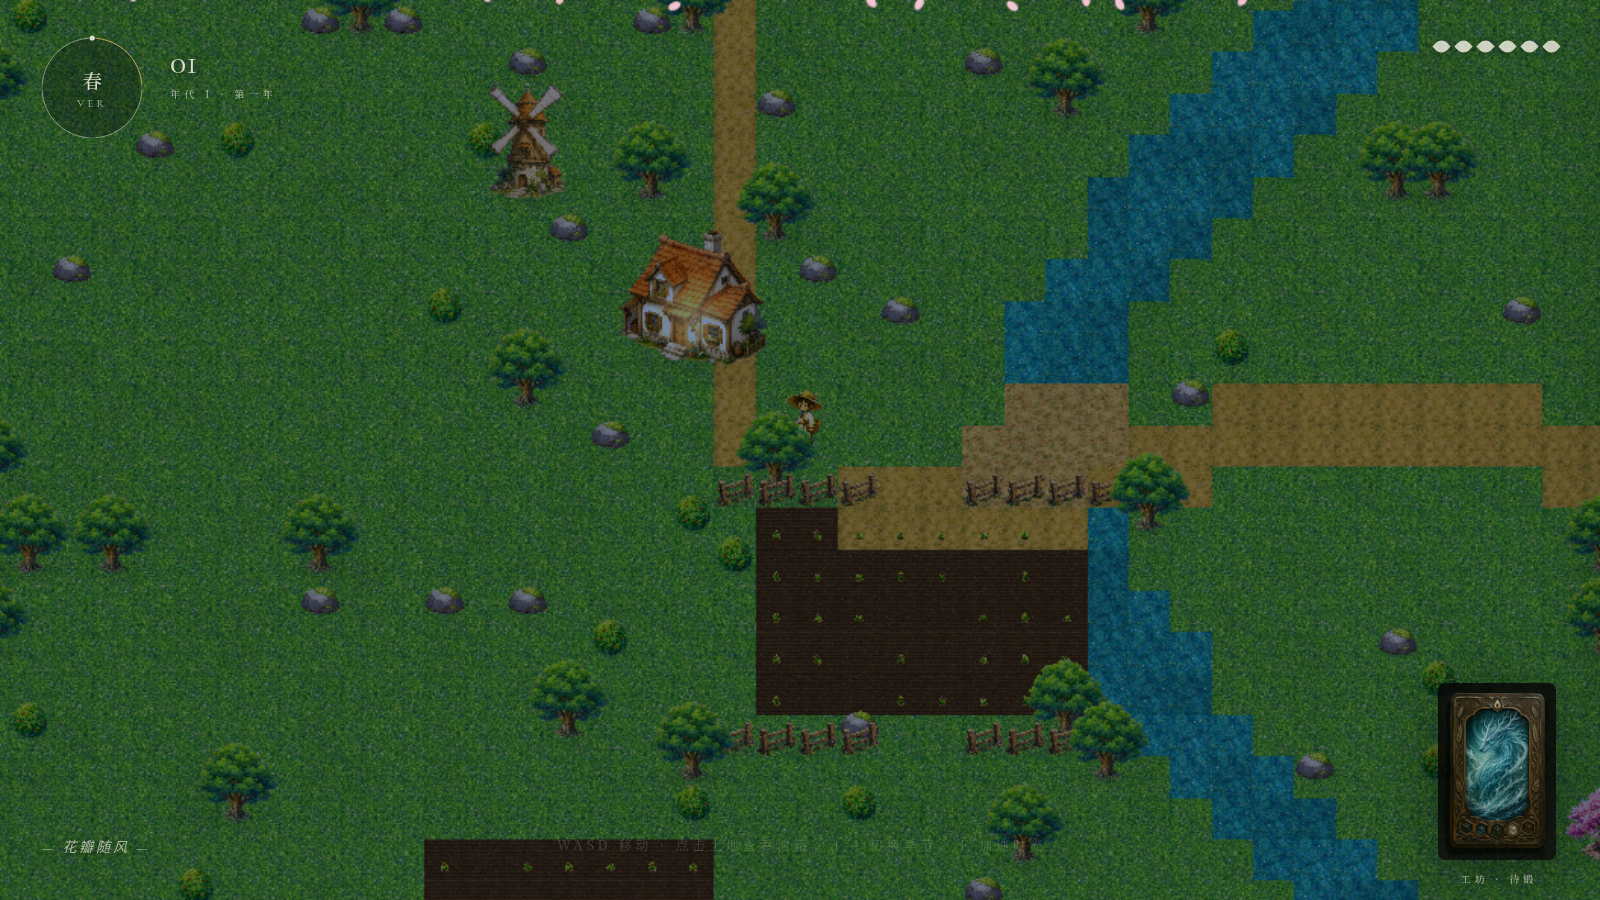
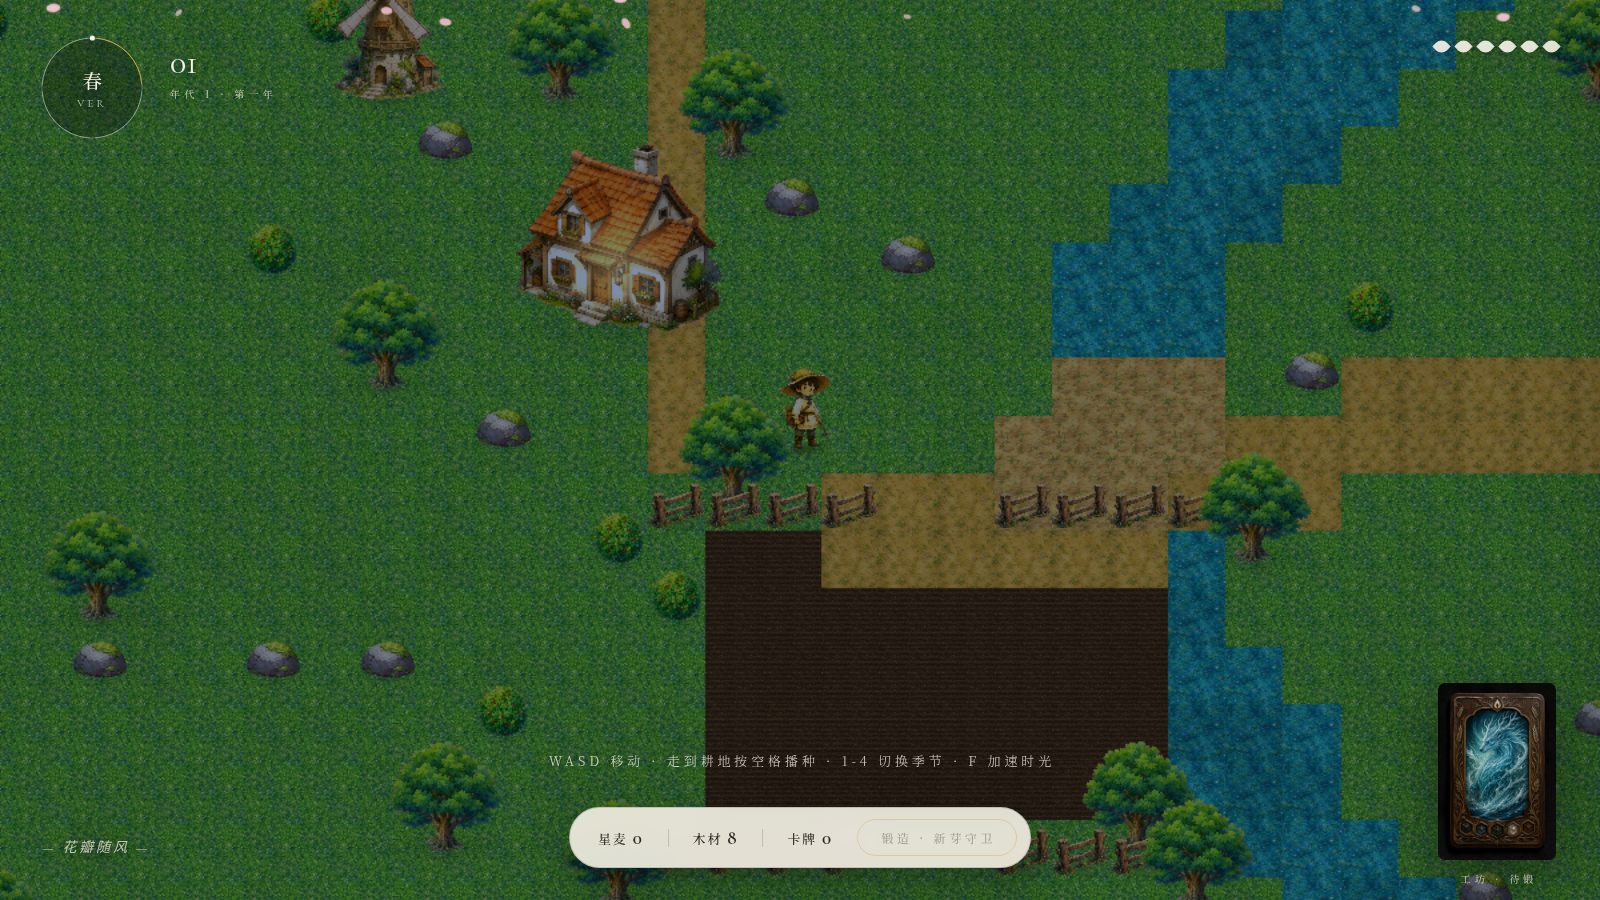
v4: cache-busting (?v= + nginx no-cache for html/js), time-based particle emitter w/ viewport-scaled speeds & season fade-out, full interact feedback, tree chopping for wood, 2x sharpened title KV

diff --git a/src/main.js b/src/main.js
@@ -10,6 +10,10 @@
    ========================================================= */
 'use strict';
 
+/* 资产版本号: 内容更新时 +1,绕过浏览器/CDN 旧缓存 */
+const ASSET_V='?v=3';
+const loadTex=src=>PIXI.Assets.load(src+ASSET_V);
+
 /* ================= 1. 资产清单(换图接口) ================= */
 const ASSETS = {
   //  src: 贴图路径(null=占位符)  winterSrc: 冬季覆雪变体  faceDir: 原画朝向(-1=朝左)
@@ -171,7 +175,7 @@ for(let y=0;y<MAP;y++)for(let x=0;x<MAP;x++){
   const t=ASSETS.tiles[{g:'grass',G:'grass',s:'soil',w:'water',b:'sand',p:'plot'}[k]];
   const sp=new PIXI.Sprite(PIXI.Texture.WHITE);
   sp.width=TS+1; sp.height=TS+1; sp.position.set(x*TS,y*TS);
-  if(t.src) PIXI.Assets.load(t.src).then(tex=>{sp.texture=tex;sp.width=TS+1;sp.height=TS+1;});
+  if(t.src) loadTex(t.src).then(tex=>{sp.texture=tex;sp.width=TS+1;sp.height=TS+1;});
   const r=hash(x*13+7,y*11+3);
   sp._k=k; sp._j=0.965+r*0.07;                 // 每块明度抖动(轻,避免棋盘感)
   sp._ph=r*6.28;                               // 水面相位
@@ -197,7 +201,7 @@ function cullWorld(){
       tileSprites[i].visible=v; const sn=snowAt[i]; if(sn)sn.visible=v;
     }}
   for(const o of OBJECTS){const n=o.node;
-    n.visible = n.x>wx0-220&&n.x<wx1+220&&n.y>wy0-300&&n.y<wy1+140;}
+    n.visible = !o.felled && n.x>wx0-220&&n.x<wx1+220&&n.y>wy0-300&&n.y<wy1+140;}
   for(const c of crops) c.visible = c.x>wx0-60&&c.x<wx1+60&&c.y>wy0-70&&c.y<wy1+70;
 }
 
@@ -210,11 +214,11 @@ function makeNode(kind){
   sh.width=a.w*1.15; sh.height=a.w*.42; sh.y=-2; node.addChild(sh); node._shadow=sh;
   if(a.src){
     const sp=new PIXI.Sprite(); sp.anchor.set(.5, a.anchorY??1);
-    PIXI.Assets.load(a.src).then(tex=>{sp.texture=tex; sp.width=a.w; sp.height=a.h;});
+    loadTex(a.src).then(tex=>{sp.texture=tex; sp.width=a.w; sp.height=a.h;});
     node.addChild(sp); node._body=sp; node._graded=true;
     if(a.winterSrc){                              // 冬季覆雪变体(crossfade)
       const wsp=new PIXI.Sprite(); wsp.anchor.set(.5, a.anchorY??1); wsp.alpha=0;
-      PIXI.Assets.load(a.winterSrc).then(tex=>{wsp.texture=tex; wsp.width=a.w; wsp.height=a.h;});
+      loadTex(a.winterSrc).then(tex=>{wsp.texture=tex; wsp.width=a.w; wsp.height=a.h;});
       node.addChild(wsp); node._winter=wsp;
     }
     if(kind==='house'){
@@ -296,7 +300,7 @@ function makePlayer(){
   const rig=new PIXI.Container(); node.addChild(rig); node._rig=rig;
   if(a.src){
     const sp=new PIXI.Sprite(); sp.anchor.set(.5,1);
-    PIXI.Assets.load(a.src).then(tex=>{sp.texture=tex;sp.width=a.w;sp.height=a.h;});
+    loadTex(a.src).then(tex=>{sp.texture=tex;sp.width=a.w;sp.height=a.h;});
     rig.addChild(sp);
   } else {
     // 纸片人占位:亚麻袍 + 草帽,饥荒式比例
@@ -402,44 +406,58 @@ const TEX_PETAL=shapeTex(g=>{g.fillStyle='#f4c4d2';g.beginPath();g.ellipse(8,8,6
 const TEX_LEAF =shapeTex(g=>{g.fillStyle='#c47834';g.beginPath();g.ellipse(8,8,7,4.2,0,0,7);g.fill();});
 const TEX_SNOW =shapeTex(g=>{g.fillStyle='#f8fafc';g.beginPath();g.arc(8,8,4.4,0,7);g.fill();});
 const parts=[];
+let emitAcc=0, wind=0;
 function spawnParticles(st,dt,night){
   const s=((Math.floor(st)%4)+4)%4;
-  const vw=app.screen.width;
-  const budget=s===1?(night?1:0):s===3?2:1;
-  for(let i=0;i<budget;i++){
+  const vw=app.screen.width, vh=app.screen.height;
+  wind=Math.sin(elapsed*.13)*.6+Math.sin(elapsed*.047)*.4;        // 缓慢阵风
+  /* 按"每秒个数"发射(与帧率解耦,杜绝低帧率下整行同时落下) */
+  const rate = s===1?(night?3:0) : s===3?9 : 6;
+  emitAcc+=dt*rate;
+  while(emitAcc>=1){
+    emitAcc-=1;
     if(parts.length>(quality===2?140:60)) break;
     let p;
-    const sc=.45+Math.random()*.65;            // 大小≈景深:近大快,远小慢
+    const sc=.45+Math.random()*.65;                               // 大小≈景深
     if(s===1&&night){
       p=new PIXI.Sprite(TEX_GLOW); p.width=p.height=8+sc*6; p.blendMode='add'; p.tint=0xffe896;
       p._fire=true; p._vx=0; p._vy=0;
-      p.x=Math.random()*vw; p.y=app.screen.height*(.3+Math.random()*.5);
+      p.x=Math.random()*vw; p.y=vh*(.3+Math.random()*.5);
     } else {
       p=new PIXI.Sprite(s===0?TEX_PETAL:s===2?TEX_LEAF:TEX_SNOW);
       p.scale.set(sc);
-      const depth=.45+sc*.85;
-      p._vx=(s===2?-26:s===0?7:-6)*depth;
-      p._vy=(s===2?42:s===0?36:26)*depth;
+      const depth=.5+sc*.8;
+      /* 速度按屏幕高度缩放:整屏下落 9~16 秒,大屏小屏氛围一致 */
+      p._vy=vh*(s===3? .055+sc*.05 : .07+sc*.06)*depth;
+      p._vx=vh*(s===2?-.030:s===0?.012:-.008)*depth;
       p._spin=s===3?(Math.random()-.5)*.7:(Math.random()-.5)*3.2;
-      p._swayA=s===3?6+Math.random()*8:10+Math.random()*18;
+      p._swayA=(s===3?.006+Math.random()*.008:.010+Math.random()*.016)*vh;
+      p._swayF=.7+Math.random()*.9;                               // 各自摆动频率,不同步
       p.alpha=.42+sc*.5;
-      p.x=Math.random()*vw*1.2-vw*.1; p.y=-14;
+      p.x=Math.random()*(vw+vh*.3)-vh*.15; p.y=-14-Math.random()*vh*.06;
     }
     p.anchor.set(.5); p._s=s; p._ph=Math.random()*6.28; p._life=0;
     partC.addChild(p); parts.push(p);
   }
 }
-function updateParticles(dt){
+function updateParticles(dt,curSeason){
+  const vh=app.screen.height;
   for(let i=parts.length-1;i>=0;i--){const p=parts[i];
-    p._ph+=dt*(p._fire?2:1.1); p._life+=dt;
+    p._ph+=dt*(p._fire?2:p._swayF||1); p._life+=dt;
+    /* 换季: 旧季粒子快速淡出(樱花不会飘进冬天) */
+    if(!p._fire && p._s!==curSeason){
+      p.alpha-=dt*1.4;
+      if(p.alpha<=0){partC.removeChild(p);parts.splice(i,1);continue;}
+    }
     if(p._fire){
       p.x+=Math.sin(p._ph*.9)*20*dt; p.y+=Math.cos(p._ph*.7)*13*dt;
       p.alpha=Math.max(0,Math.sin(p._ph))*.9;
       if(p._life>7){partC.removeChild(p);parts.splice(i,1);} continue;
     }
-    p.x+=(p._vx+Math.sin(p._ph)*p._swayA)*dt; p.y+=p._vy*dt;
+    p.x+=(p._vx + wind*vh*.045*(p._s===3?1:.6) + Math.sin(p._ph)*p._swayA)*dt;
+    p.y+=p._vy*dt;
     p.rotation+=p._spin*dt;
-    if(p.y>app.screen.height+16){partC.removeChild(p);parts.splice(i,1);}
+    if(p.y>vh+16){partC.removeChild(p);parts.splice(i,1);}
   }
 }
 
@@ -528,6 +546,11 @@ app.ticker.add(tk=>{
       n._body.rotation=Math.sin(elapsed*1.1+n.x*.01)*.008;
       if(n._winter) n._winter.rotation=n._body.rotation;
     }
+    if(o._shake>0){                                // 伐木受击晃动
+      o._shake-=dt*2.4;
+      n.scale.set(1+Math.sin(o._shake*26)*.05*Math.max(0,o._shake));
+      if(o._shake<=0) n.scale.set(1);
+    }
   }
   /* 玩家与镜头 */
   if(entered){ movePlayer(dt); }
@@ -545,7 +568,7 @@ app.ticker.add(tk=>{
   golden.tint=0xe89646; golden.alpha=dusk*.34;
   vignette.width=vw; vignette.height=vh;
   for(const c of cloudShadows){ c.x+=c._v*dt; if(c.x>MAP*TS+600)c.x=-600; }
-  spawnParticles(st,dt,night>.62); updateParticles(dt);
+  spawnParticles(st,dt,night>.62); updateParticles(dt,((Math.floor(st)%4)+4)%4);
 
   updateHUD(st,Math.floor(elapsed/DAY_SECONDS));
   springTick(dt);
@@ -576,7 +599,13 @@ function updateHUD(st,day){
     $('weatherTag').textContent='— '+WEATHER[si][(Math.random()*3)|0]+' —';}
   if(day!==lastDay){lastDay=day;$('dayNum').textContent=String(day%28+1).padStart(2,'0');
     if(day%3===0)$('weatherTag').textContent='— '+WEATHER[si][(Math.random()*3)|0]+' —';
-    staminaUsed=0; syncLeaves();}                                      // 新一天体力恢复
+    staminaUsed=0; syncLeaves();                                       // 新一天体力恢复
+    for(let i=fellQueue.length-1;i>=0;i--){                            // 伐倒的树次日重生
+      const f=fellQueue[i];
+      if(day>=f.day){ f.o.felled=false; f.o.hp=2;
+        if(f.o._col) colliders.push(f.o._col);
+        fellQueue.splice(i,1); }
+    }}
 }
 
 /* 地块面板(弹簧物理) */
@@ -633,38 +662,72 @@ function toastHint(t){ const w=$('whisper'); w.textContent=t; w.style.opacity=1;
 
 const playerTileKey=()=>Math.floor(player.x/TS)+','+Math.floor((player.y-4)/TS);
 
+/* 伐木 */
+const fellQueue=[];
+function nearestChoppable(){
+  let best=null,bd=1e9;
+  for(const o of OBJECTS){
+    if((o.kind!=='tree'&&o.kind!=='cherry')||o.felled) continue;
+    const dx=o.node.x-player.x, dy=o.node.y-player.y, d=dx*dx+dy*dy;
+    if(d<bd){bd=d;best=o;}
+  }
+  return bd<95*95? best:null;
+}
+function chop(o){
+  o.hp=(o.hp??2)-1; o._shake=1;
+  if(o.hp>0){ toastHint('咔 —— 再砍一下'); return; }
+  if(staminaUsed>=6){ toastHint('体力耗尽 · 待明日恢复'); o.hp=1; return; }
+  staminaUsed++; syncLeaves();
+  farm.inventory.materials.wood=(farm.inventory.materials.wood||0)+2;
+  Terra.save(); updateDock(); toastHint('伐木 · 木材 +2');
+  o.felled=true; o.node.visible=false;
+  const ci=colliders.findIndex(c=>c.x===o.node.x&&c.y===o.node.y);
+  if(ci>=0) o._col=colliders.splice(ci,1)[0];
+  fellQueue.push({o, day:Math.floor(elapsed/DAY_SECONDS)+1});
+}
+
 function interact(){
   const key=playerTileKey();
-  if(!tileMeta[key]) return;
-  const pc=planted[key];
-  if(!pc){                                      // 播种
-    if(staminaUsed>=6){ toastHint('体力耗尽 · 待明日恢复'); return; }
-    staminaUsed++; syncLeaves();
-    const c=makeNode('crop');
-    const [tx,ty]=key.split(',').map(Number);
-    c.x=tx*TS+TS/2; c.y=ty*TS+TS/2+16; c._shadow.visible=false; c.scale.set(.32);
-    overlayL.addChild(c); crops.push(c);
-    planted[key]={node:c, at:elapsed, mature:false};
-  } else if(pc.mature){                         // 收获:质量继承产地肥力
-    const meta=tileMeta[key];
-    (farm.inventory.crops.starwheat ??= []).push({
-      quality:+(meta.fert/100).toFixed(2), originFertility:meta.fert });
-    Terra.save(); updateDock();
-    toastHint(`收获 星麦 · 产地肥力 ${meta.fert}`);
-    overlayL.removeChild(pc.node);
-    const ci=crops.indexOf(pc.node); if(ci>=0)crops.splice(ci,1);
-    delete planted[key];
+  if(tileMeta[key]){
+    const pc=planted[key];
+    if(!pc){                                      // 播种
+      if(staminaUsed>=6){ toastHint('体力耗尽 · 待明日恢复'); return; }
+      staminaUsed++; syncLeaves();
+      const c=makeNode('crop');
+      const [tx,ty]=key.split(',').map(Number);
+      c.x=tx*TS+TS/2; c.y=ty*TS+TS/2+16; c._shadow.visible=false; c.scale.set(.32);
+      overlayL.addChild(c); crops.push(c);
+      planted[key]={node:c, at:elapsed, mature:false};
+      toastHint('播种 星麦 · 静待生长');
+    } else if(pc.mature){                         // 收获:质量继承产地肥力
+      const meta=tileMeta[key];
+      (farm.inventory.crops.starwheat ??= []).push({
+        quality:+(meta.fert/100).toFixed(2), originFertility:meta.fert });
+      Terra.save(); updateDock();
+      toastHint(`收获 星麦 · 产地肥力 ${meta.fert}`);
+      overlayL.removeChild(pc.node);
+      const ci=crops.indexOf(pc.node); if(ci>=0)crops.splice(ci,1);
+      delete planted[key];
+    } else toastHint('成长中 · 再等等');
+    return;
   }
+  const t=nearestChoppable();
+  if(t){ chop(t); return; }
+  toastHint('站上耕地可播种 · 靠近树木可伐木');
 }
 
 function updateHint(){
   const el=$('hintAction'), txt=$('hintTxt');
   if(!entered){ el.style.opacity=0; return; }
   const key=playerTileKey();
-  if(!tileMeta[key]){ el.style.opacity=0; return; }
-  const pc=planted[key];
-  txt.textContent = !pc? '播种 · 体力×1' : pc.mature? '收获星麦' : '成长中 …';
-  el.style.opacity = (!pc||pc.mature)? 1 : .55;
+  if(tileMeta[key]){
+    const pc=planted[key];
+    txt.textContent = !pc? '播种 · 体力×1' : pc.mature? '收获星麦' : '成长中 …';
+    el.style.opacity = (!pc||pc.mature)? 1 : .55;
+    return;
+  }
+  if(nearestChoppable()){ txt.textContent='伐木 · 体力×1'; el.style.opacity=1; return; }
+  el.style.opacity=0;
 }
 
 function updateDock(){

diff --git a/index.html b/index.html
@@ -24,7 +24,7 @@
   }
   #title .bg{
     position:absolute;inset:-6%;
-    background:url('assets/concept/kv_continent.png') center/cover;
+    background:url('assets/concept/kv_continent.png?v=3') center/cover;
     animation:kvBreath 26s ease-in-out infinite alternate;
     filter:saturate(1.04);
   }
@@ -270,7 +270,7 @@
 <canvas id="clouds"></canvas>
 
 <script src="vendor/pixi.min.js"></script>
-<script src="src/state.js"></script>
-<script src="src/main.js"></script>
+<script src="src/state.js?v=3"></script>
+<script src="src/main.js?v=3"></script>
 </body>
 </html>